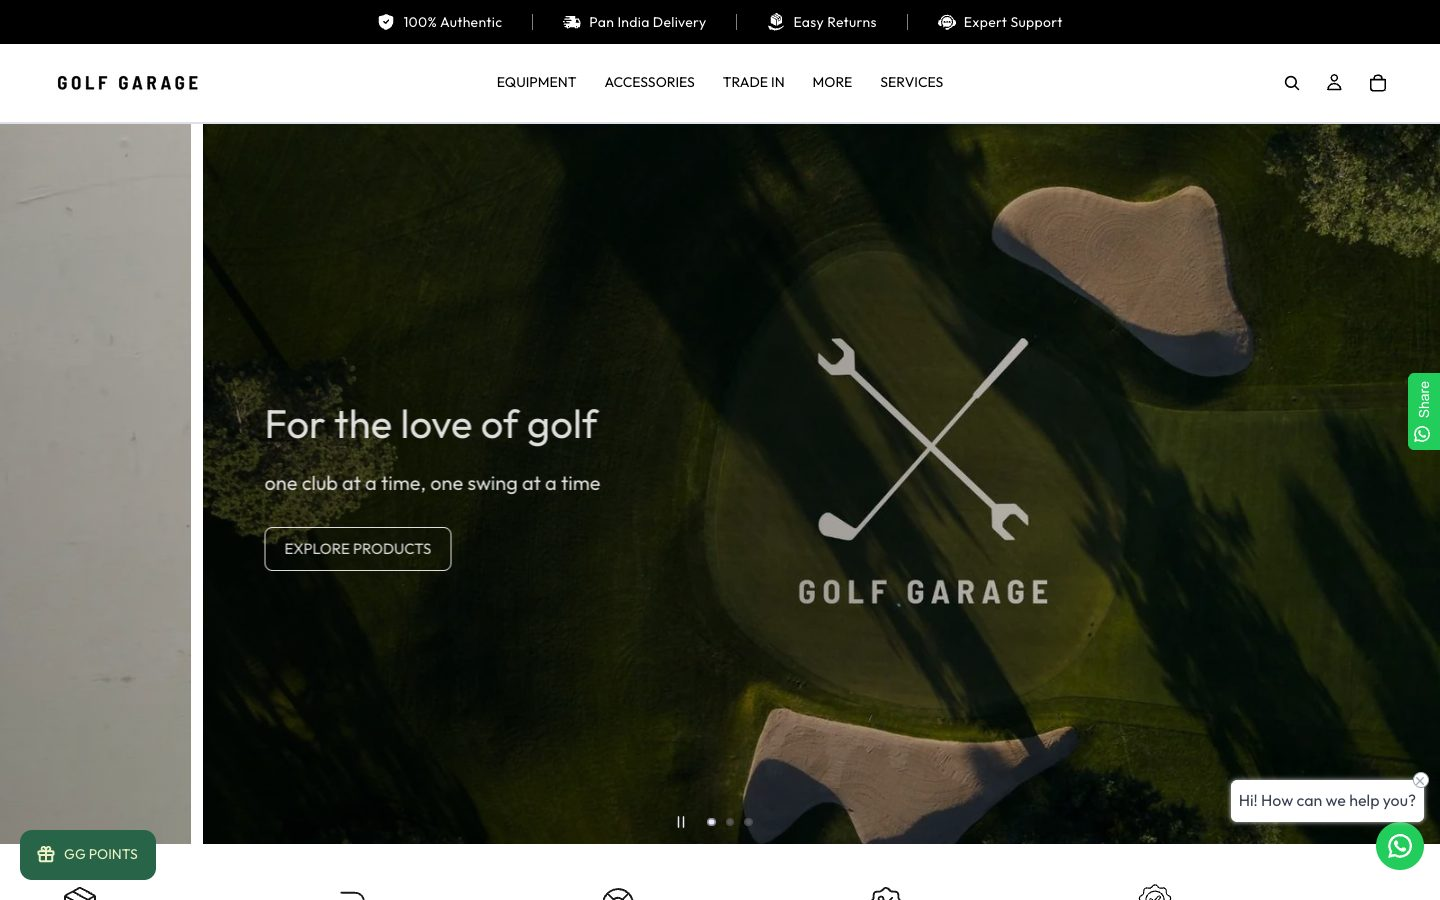
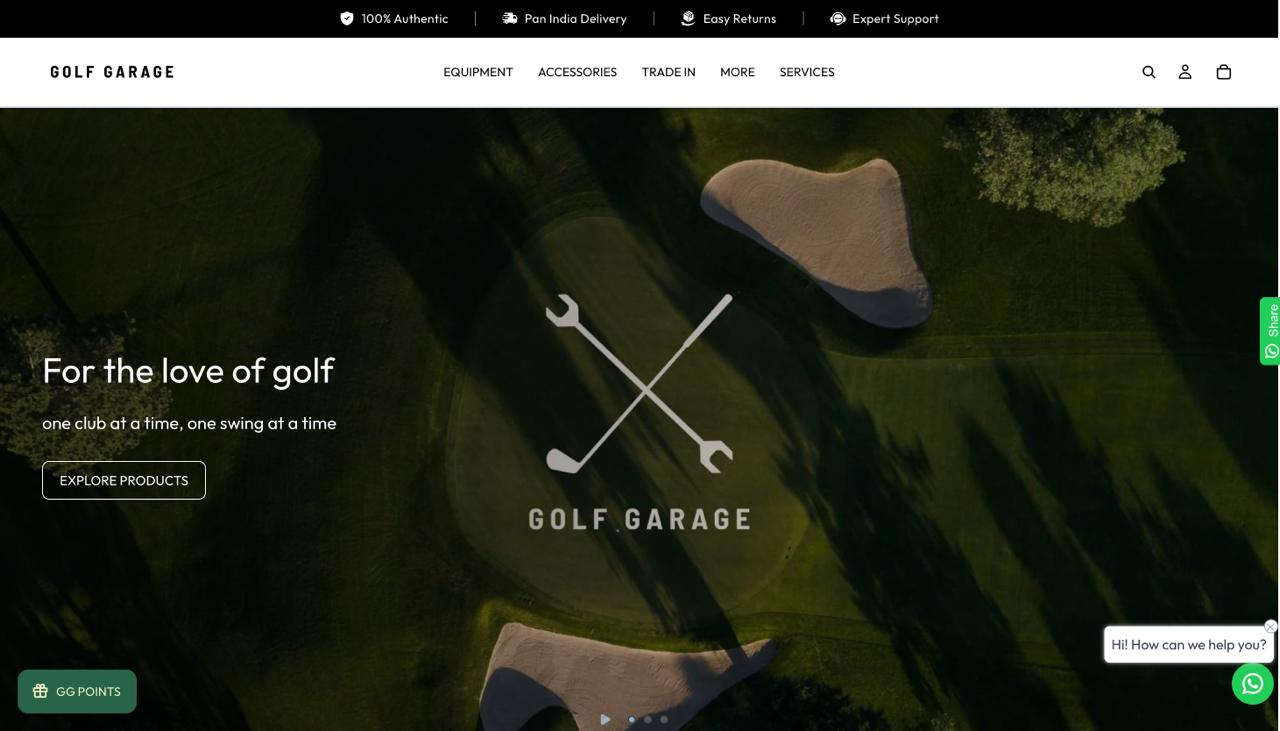
Update Golf Garage website screenshots with fresh captures
- Refreshed both real golfgarage.in screenshots with cleaner captures
  the client provided (hero, and the "Straight From The Box" section
  featuring Birdie & co., Value Pick and Starter Kit)
- Corrected the second image's alt text and caption context to match
  what it actually shows now, instead of the old "Why Choose Golf
  Garage" section

diff --git a/content/case-studies/golf-garage/main.html b/content/case-studies/golf-garage/main.html
@@ -89,7 +89,7 @@
       <h2 class="reveal" style="margin-top:14px;">Built to sell pre-owned inventory, not just products.</h2>
       <p class="body reveal" style="margin-top:14px; max-width:70ch;">Pre-owned equipment isn't a standard product catalog — every club is a unique unit that needs authenticating, grading and pricing on its own. The Shopify build handles that alongside the parts most stores need: a Trade-In flow for sellers, a Services section for shaft/grip repair and refurbishment, and GG Points, a rewards program for repeat buyers.</p>
       <img src="/images/golf-garage/website-hero.jpg" alt="Golf Garage homepage hero on golfgarage.in" style="width:100%; border-radius:12px; display:block; margin-top:28px; border:1px solid var(--line);" />
-      <img src="/images/golf-garage/website-why-choose.jpg" alt="Golf Garage 'Why Choose Golf Garage' section on golfgarage.in" style="width:100%; border-radius:12px; display:block; margin-top:20px; border:1px solid var(--line);" />
+      <img src="/images/golf-garage/website-why-choose.jpg" alt="Golf Garage homepage featuring Birdie &amp; co., the in-house brand, alongside Value Pick and Starter Kit bundles" style="width:100%; border-radius:12px; display:block; margin-top:20px; border:1px solid var(--line);" />
     </div>
   </section>
 
